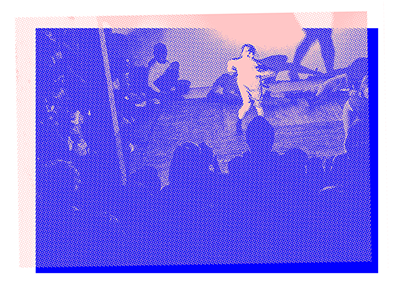
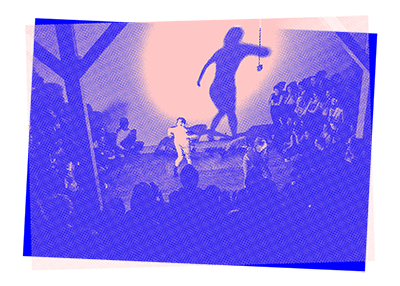
adding final images

diff --git a/ch2.html b/ch2.html
@@ -166,6 +166,10 @@
 				
 			<div class="content-container no-border">
 
+				<img class="img-half web" id="img-negative" src="img/ch2/2.png">
+				<img class="img-half middle" id="img-negative" src="img/ch2/2-mobile.png">
+				<img class="img-half mobile" id="img-negative" src="img/ch2/2-mobile.png">
+
 				<h3 class="ch-pull">
 					<span class="bold">Fuck freedom so long as a few are free to exploit others under capitalism rendering most people <span class="italic">notfuckingfree</span>.</span>  
 				</h3>
